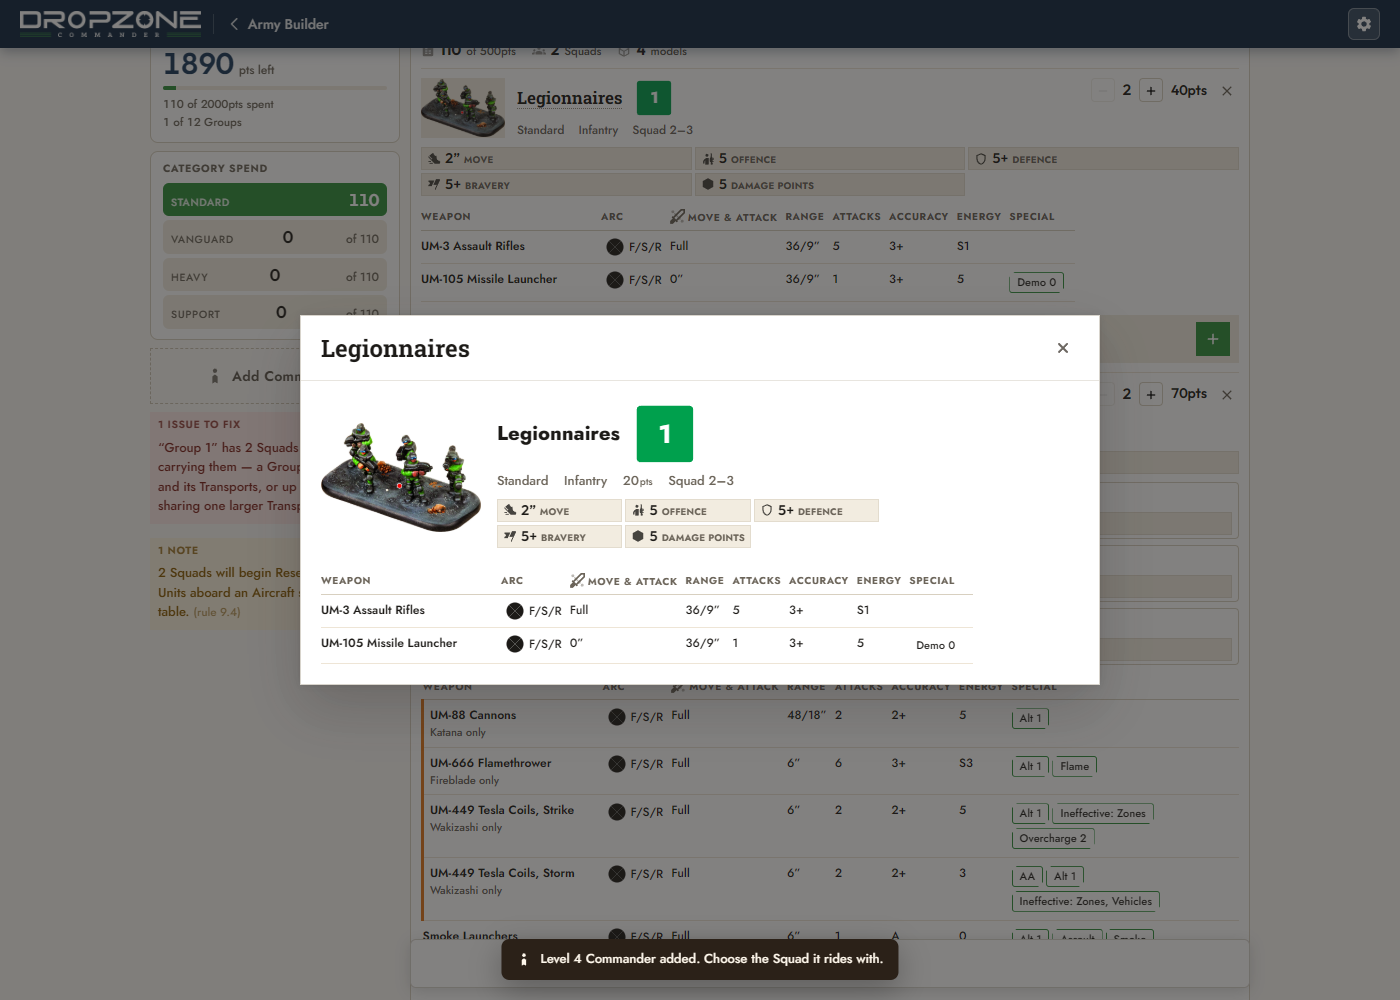
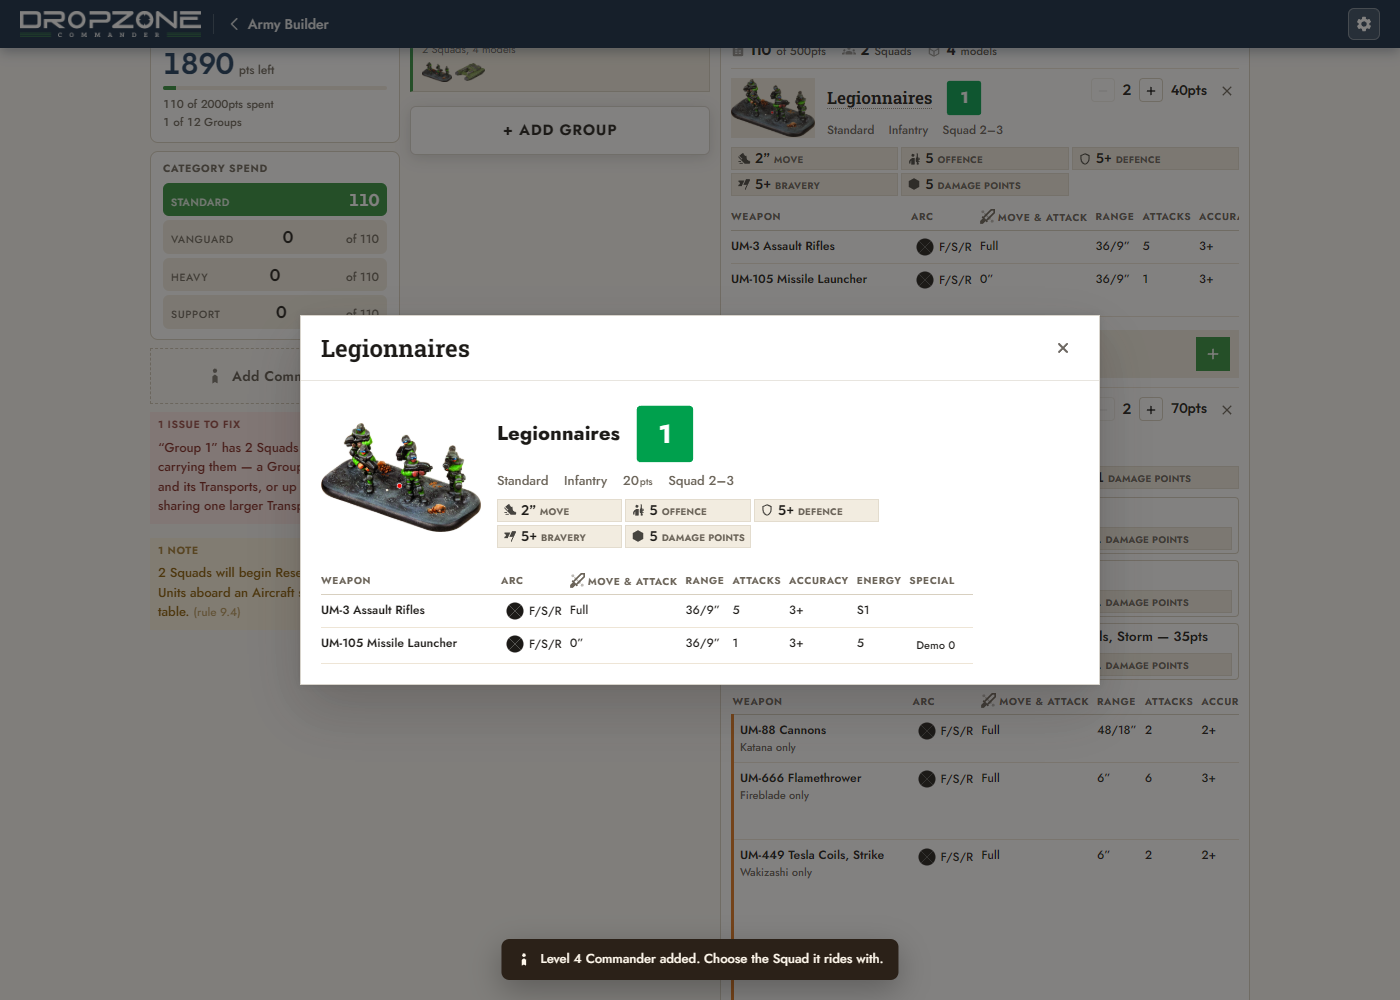
The builder gets its third pane
HANDOFF §2.2 says desktop keeps panes and mobile does not, and the builder only
ever had two: a rail and one long column with every Group expanded inside it.
Since a Squad now carries its full weapon table, that column meant scrolling
past a complete stat block to reach the next Group.

So it is Dropfleet's builder-layout (app.css:507) — sidebar, overview, detail,
each scrolling on its own. The middle pane lists Groups as briefs: name, cost
against the quarter-army ceiling, Squad and model counts, transport space per
shape, and four thumbnails. Enough to choose between them and nothing you have
to read. The right pane is the Group you picked, in full.

Three panes need real width — the weapon table alone wants 620px — so below
1400 the overview folds into a row across the top and the detail takes the
whole width beneath it. Below 900 it is one column, and a Group is a screen you
drill into, which is what mobile was always supposed to do.

The builder's max-width was 1120, which no three-pane layout can use. 1600 now.

Adding a Group selects it, and a selection whose Group has been deleted falls
back to the first, so the detail pane can never point at something gone.

diff --git a/js/dzc-builder.js b/js/dzc-builder.js
@@ -26,6 +26,9 @@
   let current = null;                 // the army being edited
   let picker = { groupId: null, category: 'All', search: '', sort: 'points', dir: 1,
                  view: 'grid', filters: [], shapes: [] };
+  // Which Group the detail pane is showing. Null falls back to the first, so
+  // opening an army always lands on something rather than an empty pane.
+  let selectedGroup = null;
 
   // ------------------------------------------------------------- army list
 
@@ -266,6 +269,12 @@
      * so it stays put instead of shoving the Groups down the page every time
      * an alert appears or clears. Below 900px it stacks above the list.
      * HANDOFF §2.2: desktop keeps panes, mobile does not. */
+    // Fall back to the first Group, and drop a selection whose Group has been
+    // removed, so the detail pane can never point at something deleted.
+    if (selectedGroup && !a.groups.some(g => g.id === selectedGroup)) selectedGroup = null;
+    const sel = a.groups.find(g => g.id === selectedGroup) || a.groups[0] || null;
+    if (sel) selectedGroup = sel.id;
+
     root.innerHTML = `<div class="dzc-wrap dzc-builder" style="--acc:${accentOf(a.faction)}">
       <header class="dzc-b-head">
         <!-- Editable in place, and it has to SAY so. A contenteditable heading
@@ -323,12 +332,50 @@
           ${shortfallHtml(a)}
         </aside>
 
-        <div class="dzc-b-main">
-          ${a.groups.map(g => groupHtml(a, g)).join('')}
+        <!-- Three panes on a desktop, one column on a phone. Dropfleet splits
+             the builder into sidebar / overview / detail, each scrolling on its
+             own (app.css:507), and that is exactly what this needed once a
+             Squad grew a full weapon table: the overview stays scannable and
+             the reading happens in the detail pane.
+
+             On a phone there is no detail pane. A Group is a screen you drill
+             into, so the list IS the screen and opening one replaces it. -->
+        <div class="dzc-b-list">
+          ${a.groups.map(g => groupBrief(a, g)).join('')
+            || '<p class="dzc-b-none">No Groups yet.</p>'}
           <button class="btn btn-outline dzc-add-group" type="button" onclick="DZCBuilder.addGroup()">+ Add Group</button>
+        </div>
+
+        <div class="dzc-b-detail">
+          ${sel ? groupHtml(a, sel) : `<p class="dzc-b-none">${
+            a.groups.length ? 'Pick a Group to work on it.' : 'Add a Group to start.'}</p>`}
         </div>
       </div>
     </div>`;
+  }
+
+  /* The overview entry: enough to choose between Groups, and nothing you have
+   * to read. Name, what it costs, how big it is, and the transport space,
+   * which is the fact that decides where the next Unit can go. */
+  function groupBrief(a, g) {
+    const cost = window.DZCArmy.groupCost(a, g);
+    const cap = window.DZC.maxGroupCost(a.pointsLimit);
+    const models = g.squads.reduce((n, s) => n + s.models.length, 0);
+    const U = window.DZCUnits;
+    const space = window.DZCArmy.groupSpace(a, g).map(sp =>
+      `<span class="dzc-bb-sp${sp.used > sp.total ? ' is-over' : sp.used === sp.total ? ' is-full' : ''}"
+        >${U.shape(sp.shape, 13, true)}<b>${sp.used}</b><i>/${sp.total}</i></span>`).join('');
+    const art = g.squads.map(s => window.DZCArmy.unitOf(a, s)).filter(u => u && u.art)
+      .slice(0, 4).map(u => `<img src="${esc(u.art)}" alt="" loading="lazy" title="${esc(u.name)}">`).join('');
+    return `<button type="button" class="dzc-bb${g.id === selectedGroup ? ' is-on' : ''}${
+      cost > cap ? ' is-over' : ''}" onclick="DZCBuilder.selectGroup('${g.id}')">
+      <span class="dzc-bb-head"><b>${esc(window.DZCArmy.groupName(a, g))}</b>
+        <i>${cost}<s>/${cap}</s></i></span>
+      <span class="dzc-bb-meta">${g.squads.length} Squad${g.squads.length === 1 ? '' : 's'}${
+        models ? `, ${models} model${models === 1 ? '' : 's'}` : ''}</span>
+      ${space ? `<span class="dzc-bb-spaces">${space}</span>` : ''}
+      ${art ? `<span class="dzc-bb-art">${art}</span>` : ''}
+    </button>`;
   }
 
   /* One thumbnail per distinct Unit, first from each Group, bordered in its
@@ -1268,7 +1315,8 @@
     // took the decision "which Group am I filling" away from you and made
     // adding two Groups back to back a fight with a modal.
     addGroup: async () => {
-      window.DZCArmy.addGroup(current);
+      const g = window.DZCArmy.addGroup(current);
+      selectedGroup = g.id;
       await renderBuilder(current.id);
     },
     removeGroup: id => { window.DZCArmy.removeGroup(current, id); refresh(); },
@@ -1287,6 +1335,7 @@
       refresh();
     },
     setCarrier: (id, c) => { window.DZCArmy.setCarrier(current, id, c); refresh(); },
+    selectGroup: id => { selectedGroup = id; refresh(); },
     openCarry, closeCarry,
     boardTransport: (id, carrierId) => {
       const r = window.DZCArmy.boardTransport(current, id, carrierId);

diff --git a/css/dzc.css b/css/dzc.css
@@ -397,7 +397,47 @@
    Desktop keeps panes, mobile does not (HANDOFF §2.2). The rail holds what you
    need while working — points left and what is outstanding — so it stays put
    rather than shoving the Groups down the page each time an alert appears. */
-.dzc-b-body { display: grid; grid-template-columns: 250px minmax(0, 1fr); gap: 10px; align-items: start; }
+/* Three panes, each scrolling on its own — Dropfleet's builder-layout
+   (app.css:507). The overview stays scannable while the detail pane carries
+   the weapon tables; one long column made you scroll past a full stat block to
+   reach the next Group. */
+.dzc-b-body {
+  display: grid; grid-template-columns: 250px minmax(200px, 300px) minmax(0, 1fr);
+  gap: 10px; align-items: start;
+}
+.dzc-b-list { display: flex; flex-direction: column; gap: 6px; position: sticky; top: 12px; }
+.dzc-b-detail { min-width: 0; }
+.dzc-b-none { margin: 0; padding: 14px 2px; font-size: 13px; color: var(--ink-2, #9a9184); }
+
+/* An overview entry: what you need to choose between Groups, nothing to read. */
+.dzc-bb {
+  display: flex; flex-direction: column; gap: 4px; width: 100%;
+  padding: 8px 9px; cursor: pointer; text-align: left;
+  border: 1px solid var(--line, #d8d0c0); border-left: 3px solid transparent;
+  border-radius: 0; background: var(--surface-2, #fff); color: inherit;
+  transition: border-color .12s, background .12s;
+}
+.dzc-bb:hover { border-color: var(--acc); }
+.dzc-bb.is-on { border-left-color: var(--acc); background: var(--surface-3, #f2ece0); }
+.dzc-bb.is-over { border-color: var(--danger, #b3261e); }
+.dzc-bb:focus-visible { outline: 2px solid var(--acc); outline-offset: 2px; }
+.dzc-bb-head { display: flex; align-items: baseline; justify-content: space-between; gap: 8px; }
+.dzc-bb-head b { font: 700 13.5px/1.2 var(--font-ui, 'Jost', sans-serif); overflow-wrap: anywhere; }
+.dzc-bb-head i {
+  font-style: normal; white-space: nowrap;
+  font: 700 13px/1 var(--font-numeric, 'Outfit', sans-serif); color: var(--acc);
+}
+.dzc-bb-head i s { text-decoration: none; font-weight: 500; font-size: 11px; color: var(--ink-2, #9a9184); }
+.dzc-bb.is-over .dzc-bb-head i { color: var(--danger, #b3261e); }
+.dzc-bb-meta { font-size: 11px; color: var(--ink-2, #6b6459); }
+.dzc-bb-spaces { display: flex; flex-wrap: wrap; gap: 3px 8px; }
+.dzc-bb-sp { display: inline-flex; align-items: center; gap: 3px; font-size: 11px; }
+.dzc-bb-sp b { font: 700 12px/1 var(--font-numeric, 'Outfit', sans-serif); }
+.dzc-bb-sp i { font-style: normal; color: var(--ink-2, #9a9184); }
+.dzc-bb-sp.is-full b { color: #14532d; }
+.dzc-bb-sp.is-over b { color: var(--danger, #b3261e); }
+.dzc-bb-art { display: flex; gap: 3px; flex-wrap: wrap; }
+.dzc-bb-art img { width: 30px; height: 22px; object-fit: contain; background: var(--surface-3, #f2ece0); }
 .dzc-rail { position: sticky; top: 12px; display: flex; flex-direction: column; gap: 8px; }
 .dzc-b-main { min-width: 0; }
 .dzc-rail-card {
@@ -431,6 +471,19 @@
 .dzc-rail .dzc-ratios { flex-direction: column; gap: 4px; margin: 0; }
 .dzc-rail .dzc-ratio { display: flex; align-items: baseline; justify-content: space-between; gap: 8px; padding: 4px 8px; }
 .dzc-rail .dzc-ratio span { display: inline; font-size: 10.5px; }
+
+/* Three panes need real width. The weapon table alone wants ~620px, so below
+   1400 the overview folds up into a row across the top and the detail pane
+   takes the whole width underneath — two panes, not a squeezed three. */
+@media (max-width: 1400px) {
+  .dzc-b-body { grid-template-columns: 250px minmax(0, 1fr); }
+  .dzc-b-list {
+    grid-column: 1 / -1; position: static;
+    flex-direction: row; flex-wrap: wrap; align-items: stretch;
+  }
+  .dzc-bb { width: auto; flex: 1 1 190px; }
+  .dzc-b-detail { grid-column: 1 / -1; }
+}
 
 @media (max-width: 900px) {
   .dzc-b-body { grid-template-columns: 1fr; }
@@ -990,7 +1043,7 @@
    full-width desktop viewport. */
 /* 640px was right when the builder was one column. With a rail beside it the
    Groups need their own width, or a Squad row is squeezed into 340px. */
-.dzc-builder { max-width: 1120px; }
+.dzc-builder { max-width: 1600px; }
 
 /* ── narrowing down ──
    One responsive app, not two builds. The same markup gets less indent, less
